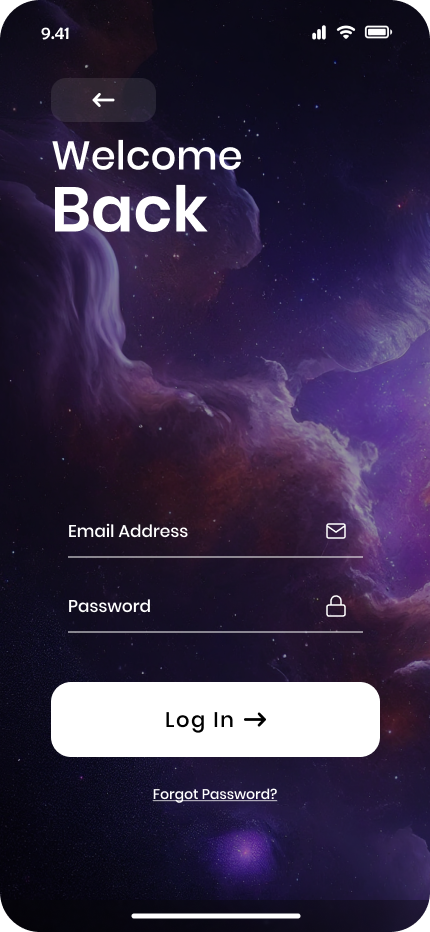
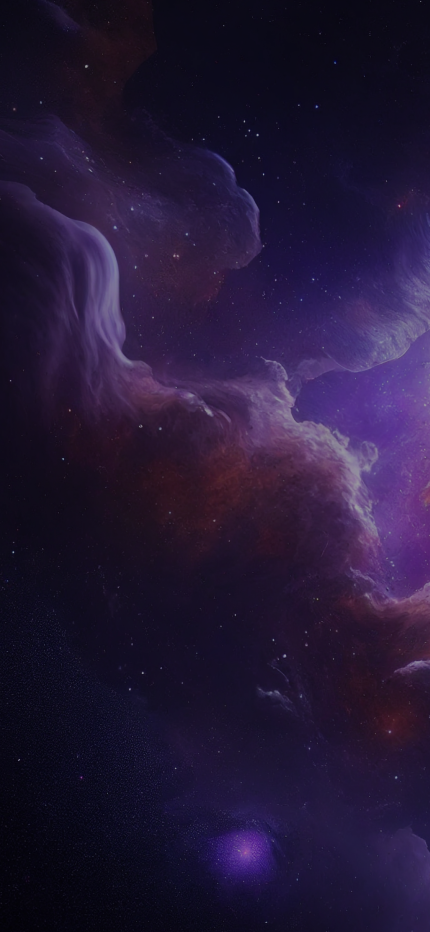
Starting the login page.

diff --git a/lib/loginOption.dart b/lib/loginOption.dart
@@ -1,6 +1,6 @@
 import 'package:flutter/material.dart';
-import 'package:virtual_galaxy_explorer/overview.dart';
-import 'galaxiesStarting.dart';
+
+import 'package:virtual_galaxy_explorer/satelitesstarting.dart';
 
 class LoginOption extends StatefulWidget {
   const LoginOption({super.key});
@@ -23,7 +23,50 @@ class _LoginOptionState extends State<LoginOption> {
         child: Stack(
           children: [
             Positioned(
-              top: 90,
+              top: 50,
+              left: 35,
+              child: GestureDetector(
+                onTap: () {
+                  Navigator.pushReplacement(
+                    context,
+                    PageRouteBuilder(
+                      pageBuilder: (context, animation, secondaryAnimation) => Satelitesstarting(),
+                      transitionsBuilder: (context, animation, secondaryAnimation, child) {
+                        const begin = Offset(1.0, 0.0); // Start from the right side
+                        const end = Offset.zero; // End at the left side
+                        const curve = Curves.easeInOut;
+                        var tween = Tween(begin: begin, end: end).chain(CurveTween(curve: curve));
+                        return SlideTransition(
+                          position: animation.drive(tween),
+                          child: child,
+                        );
+                      },
+                    ),
+                  );
+                },
+                child: Container(
+                  height: 40,
+                  width: 70,
+                  decoration: BoxDecoration(
+                    color: Colors.white.withOpacity(0.3),
+                    borderRadius: BorderRadius.circular(20),
+                  ),
+                  child: Row(
+                    mainAxisAlignment: MainAxisAlignment.center,
+                    children: const [
+                      SizedBox(width: 6),
+                      Icon(
+                        Icons.arrow_back_rounded,
+                        color: Colors.white,
+                        size: 30,
+                      ),
+                    ],
+                  ),
+                ),
+              ),
+            ),
+            Positioned(
+              top: 100,
               left: 40,
               child: Text(
                 'Let\'s float in',
@@ -36,7 +79,7 @@ class _LoginOptionState extends State<LoginOption> {
               ),
             ),
             Positioned(
-              top: 135,
+              top: 145,
               left: 40,
               child: const Text(
                 'Galaxies',
@@ -83,25 +126,33 @@ class _LoginOptionState extends State<LoginOption> {
                 child: Row(
                   mainAxisAlignment: MainAxisAlignment.center,
                   children: [
-                    Container(
-                      height: 60,
-                      width: 150,
-                      decoration: BoxDecoration(
-                        color: Color(0xFFBD6230),
-                        borderRadius: BorderRadius.circular(20),
-                      ),
-                        child:
-                          Center(
-                            child: Text(
-                              'Login',
-                              style: TextStyle(
-                                fontSize: 18,
-                                fontWeight: FontWeight.w500,
-                                fontFamily: 'poppins',
-                                color: Colors.white,
+                    GestureDetector(
+                      onTap: () {
+                        Navigator.pushReplacementNamed(
+                          context,
+                          '/login'
+                        );
+                      },
+                      child: Container(
+                        height: 60,
+                        width: 150,
+                        decoration: BoxDecoration(
+                          color: Color(0xFFBD6230),
+                          borderRadius: BorderRadius.circular(20),
+                        ),
+                          child:
+                            Center(
+                              child: Text(
+                                'Login',
+                                style: TextStyle(
+                                  fontSize: 18,
+                                  fontWeight: FontWeight.w500,
+                                  fontFamily: 'poppins',
+                                  color: Colors.white,
+                                ),
                               ),
                             ),
-                          ),
+                      ),
                     ),
                     SizedBox(width: 20),
                     Container(
@@ -131,6 +182,6 @@ class _LoginOptionState extends State<LoginOption> {
           ],
         ),
       ),
-    );;
+    );
   }
 }

diff --git a/lib/login.dart b/lib/login.dart
@@ -1,0 +1,99 @@
+import 'package:flutter/material.dart';
+import 'package:virtual_galaxy_explorer/loginOption.dart';
+
+class Login extends StatefulWidget {
+  const Login({super.key});
+
+  @override
+  State<Login> createState() => _LoginState();
+}
+
+class _LoginState extends State<Login> {
+  @override
+  Widget build(BuildContext context) {
+    return Scaffold(
+      body: Container(
+        decoration: BoxDecoration(
+          image: DecorationImage(
+            image: AssetImage('assets/userloginImage.png'), // Replace with your image path
+            fit: BoxFit.cover,
+          ),
+        ),
+        child: Stack(
+          children: [
+            Positioned(
+              top: 50,
+              left: 35,
+              child: GestureDetector(
+                onTap: () {
+                  Navigator.pushReplacement(
+                    context,
+                    PageRouteBuilder(
+                      pageBuilder: (context, animation, secondaryAnimation) => LoginOption(),
+                      transitionsBuilder: (context, animation, secondaryAnimation, child) {
+                        const begin = Offset(1.0, 0.0); // Start from the right side
+                        const end = Offset.zero; // End at the left side
+                        const curve = Curves.easeInOut;
+                        var tween = Tween(begin: begin, end: end).chain(CurveTween(curve: curve));
+                        return SlideTransition(
+                          position: animation.drive(tween),
+                          child: child,
+                        );
+                      },
+                    ),
+                  );
+                },
+                child: Container(
+                  height: 40,
+                  width: 70,
+                  decoration: BoxDecoration(
+                    color: Colors.white.withOpacity(0.3),
+                    borderRadius: BorderRadius.circular(20),
+                  ),
+                  child: Row(
+                    mainAxisAlignment: MainAxisAlignment.center,
+                    children: const [
+                      SizedBox(width: 6),
+                      Icon(
+                        Icons.arrow_back_rounded,
+                        color: Colors.white,
+                        size: 30,
+                      ),
+                    ],
+                  ),
+                ),
+              ),
+            ),
+            Positioned(
+              top: 100,
+              left: 40,
+              child: Text(
+                'Welcome',
+                style: TextStyle(
+                  fontSize: 40,
+                  fontWeight: FontWeight.w500,
+                  fontFamily: 'poppins',
+                  color: Colors.white,
+                ),
+              ),
+            ),
+            Positioned(
+              top: 145,
+              left: 40,
+              child: const Text(
+                'Back',
+                style: TextStyle(
+                  fontSize: 63,
+                  fontWeight: FontWeight.w600,
+                  fontFamily: 'Poppins',
+                  color: Colors.white,
+                ),
+              ),
+            ),
+
+          ],
+        ),
+      ),
+    );;
+  }
+}

diff --git a/lib/satelitesstarting.dart b/lib/satelitesstarting.dart
@@ -24,7 +24,50 @@ class _SatelitesstartingState extends State<Satelitesstarting> {
         child: Stack(
           children: [
             Positioned(
-              top: 90,
+              top: 50,
+              left: 35,
+              child: GestureDetector(
+                onTap: () {
+                  Navigator.pushReplacement(
+                    context,
+                    PageRouteBuilder(
+                      pageBuilder: (context, animation, secondaryAnimation) => Planetsstarting(),
+                      transitionsBuilder: (context, animation, secondaryAnimation, child) {
+                        const begin = Offset(1.0, 0.0); // Start from the right side
+                        const end = Offset.zero; // End at the left side
+                        const curve = Curves.easeInOut;
+                        var tween = Tween(begin: begin, end: end).chain(CurveTween(curve: curve));
+                        return SlideTransition(
+                          position: animation.drive(tween),
+                          child: child,
+                        );
+                      },
+                    ),
+                  );
+                },
+                child: Container(
+                  height: 40,
+                  width: 70,
+                  decoration: BoxDecoration(
+                    color: Colors.white.withOpacity(0.3),
+                    borderRadius: BorderRadius.circular(20),
+                  ),
+                  child: Row(
+                    mainAxisAlignment: MainAxisAlignment.center,
+                    children: const [
+                      SizedBox(width: 6),
+                      Icon(
+                        Icons.arrow_back_rounded,
+                        color: Colors.white,
+                        size: 30,
+                      ),
+                    ],
+                  ),
+                ),
+              ),
+            ),
+            Positioned(
+              top: 100,
               left: 40,
               child: Text(
                 'Learn about',
@@ -37,7 +80,7 @@ class _SatelitesstartingState extends State<Satelitesstarting> {
               ),
             ),
             Positioned(
-              top: 140,
+              top: 145,
               left: 40,
               child: const Text(
                 'Satellites',

diff --git a/lib/main.dart b/lib/main.dart
@@ -1,10 +1,12 @@
 import 'package:flutter/material.dart';
 import 'launch.dart';
+import 'package:virtual_galaxy_explorer/login.dart';
 
 void main() {
     runApp(MaterialApp(
       routes: {
         '/' : (context) =>Launch(),
+        '/login' : (context) => Login(),
       },
     ));
 }
